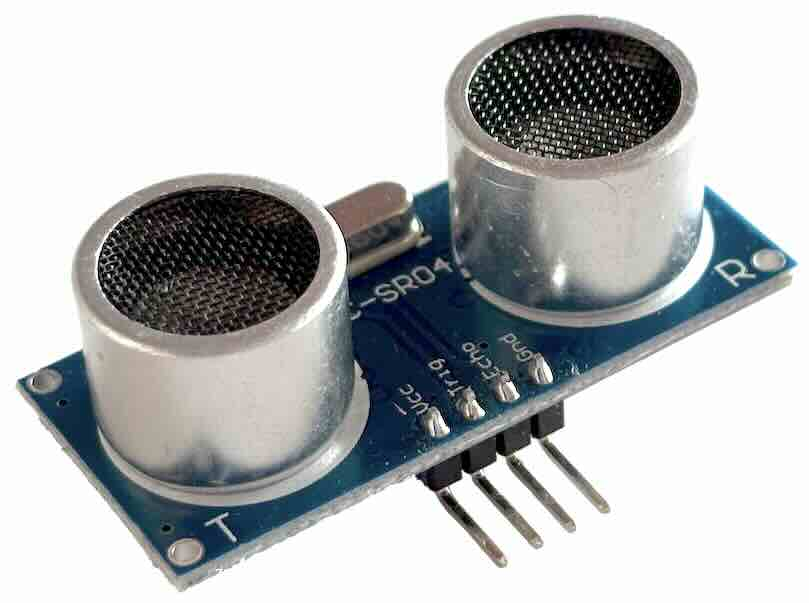
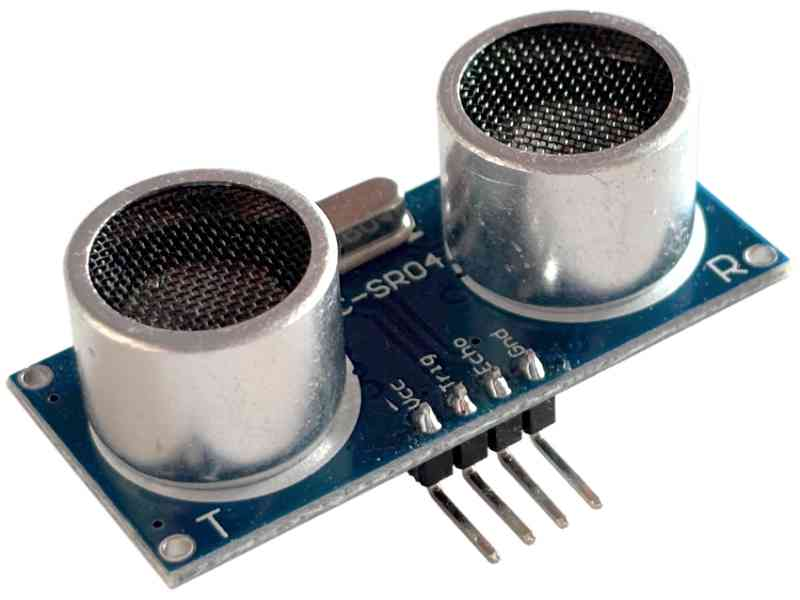
Use PNG with alpha transparency for distance sensing component photo

Changed region(s): [[0.0, 0.0, 1.0, 0.99], [0.7188, 0.81, 0.75, 0.84], [0.6562, 0.81, 0.6875, 0.84]]

diff --git a/web/posts/echolocation-1/content.md b/web/posts/echolocation-1/content.md
@@ -164,9 +164,9 @@ Hardware which performs this exact operation is readily available, such as the
 typically advertises accuracy of "up to 3mm" (theoretically requiring a sample
 rate of at least 60kHz).
 
-![HC-SR04](./hc-sr04.small.jpg) An HC-SR04 Ultrasonic Distance Sensor. It has a
-directional transmitter (speaker) on the left and a directional receiver
-(microphone) on the right.
+![HC-SR04](./hc-sr04.small.noborder.png) An HC-SR04 Ultrasonic Distance Sensor.
+It has a directional transmitter (speaker) on the left and a directional
+receiver (microphone) on the right.
 
 This specific example sends out a series of 8 very short 40kHz beeps (which
 requires a digital sample rate of at least 80kHz due to
